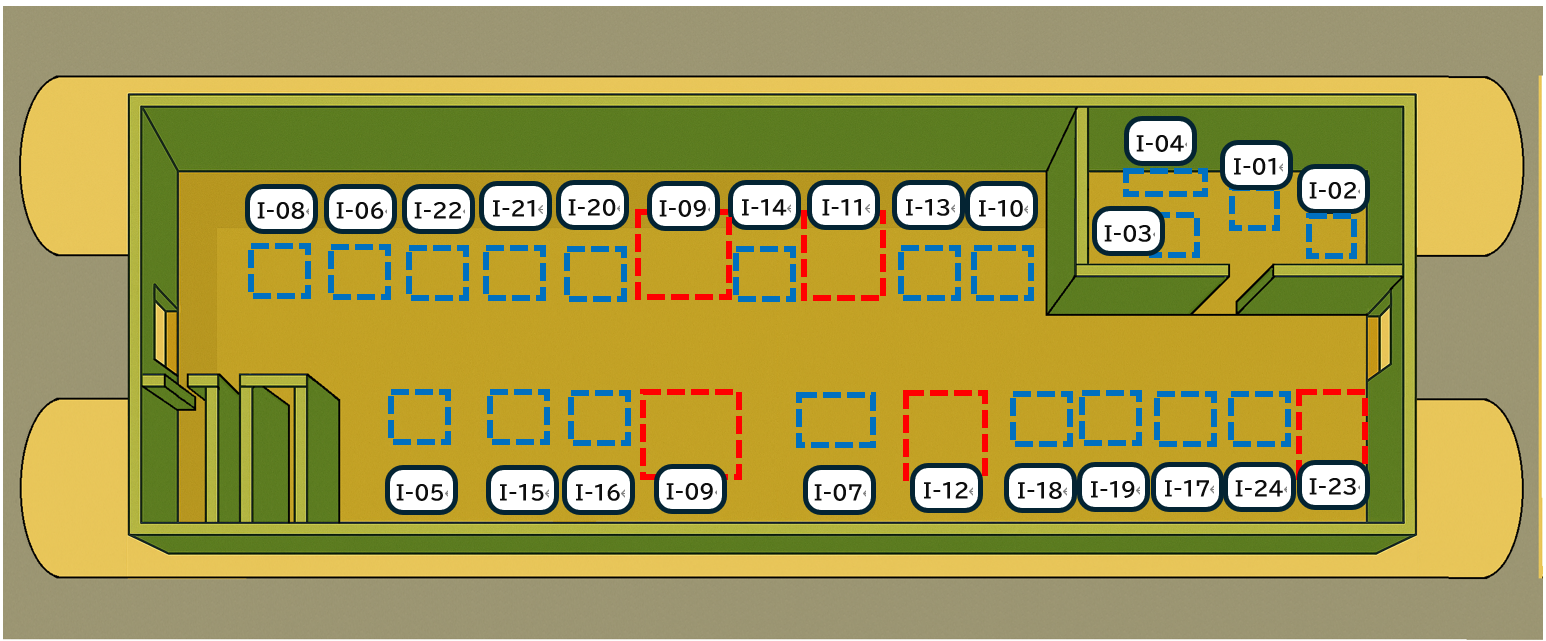
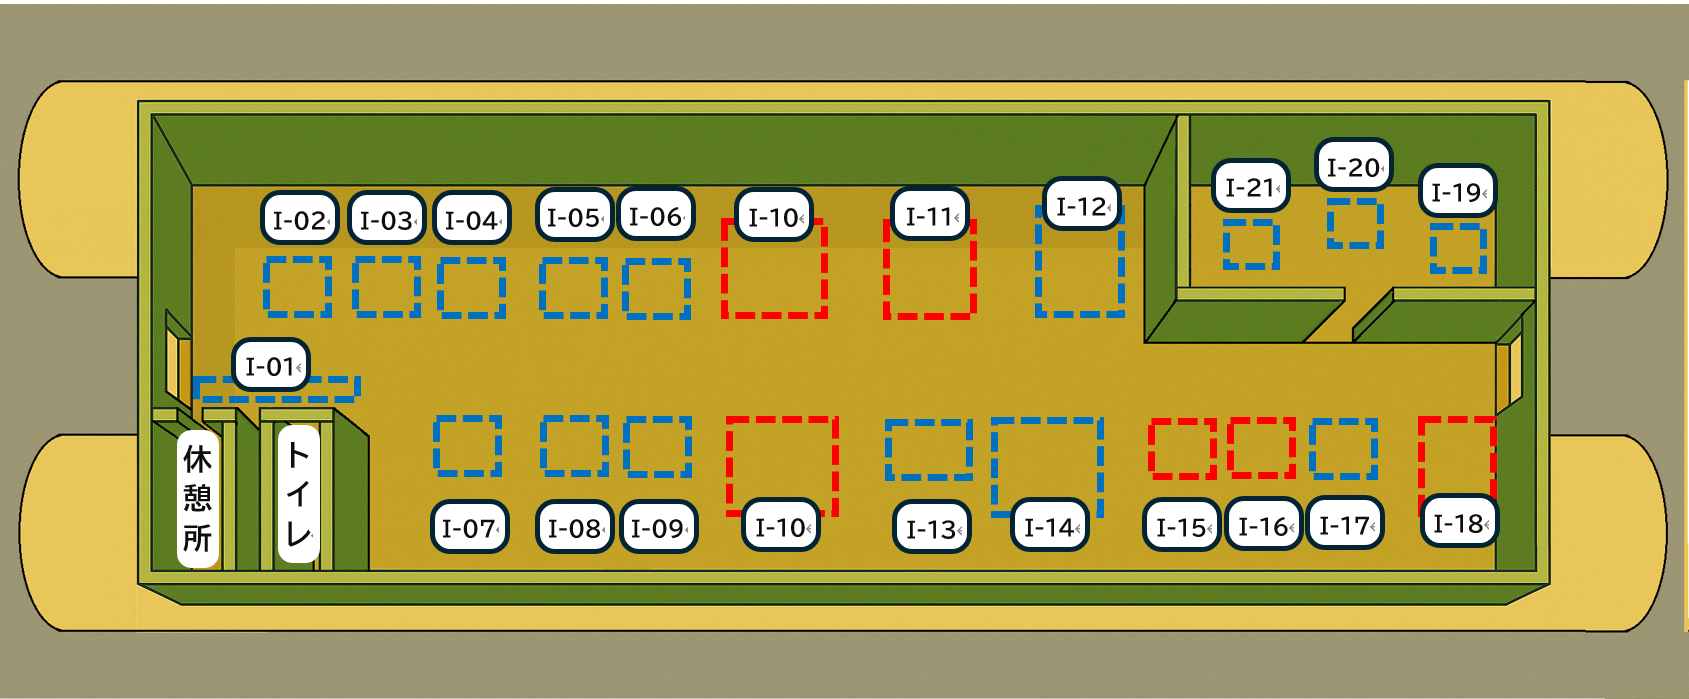
Add files via upload

Changed region(s): [[0.0, 0.0, 1.0, 1.0]]

diff --git a/indoor.html b/indoor.html
@@ -110,81 +110,72 @@ const routeLayerA  = L.layerGroup();
    4. GeoJSON相当データ（HTML内埋め込み）
 ========================================= */
 const indoorBooths = {  "type": "FeatureCollection","features": [
-    { "type":"Feature","properties":{"id":"I-01","name":"＆Conote概要","time":"5〜10分","image":"I-X.png"},
+    { "type":"Feature","properties":{"id":"I-01","name":"技術PRコーナー","time":"5〜10分","image":"I-X.png"},  "geometry":{"type":"Point","coordinates":[300,380]}},
 
-      "geometry":{"type":"Point","coordinates":[1220,520]}},
+    { "type":"Feature","properties":{"id":"I-02","name":"地域別電力需要予測システム（DFES）","time":"5〜10分","image":"I-X.png"},
+      "geometry":{"type":"Point","coordinates":[260,460]}},
 
-    { "type":"Feature","properties":{"id":"I-02","name":"＆Conoteサービス","time":"5〜10分","image":"I-X.png"},
-      "geometry":{"type":"Point","coordinates":[1300,500]}},
+    { "type":"Feature","properties":{"id":"I-03","name":"AIを活用した配電設備の劣化判定","time":"5〜10分","image":"I-X.png"},
+      "geometry":{"type":"Point","coordinates":[340,460]}},
 
-    { "type":"Feature","properties":{"id":"I-03","name":"コンサル海外事例","time":"5〜10分","image":"I-X.png"},
-      "geometry":{"type":"Point","coordinates":[1150,490]}},
+    { "type":"Feature","properties":{"id":"I-04","name":"ポリエチレン線カバーの水平リサイクル","time":"5〜10分","image":"I-X.png"},
+      "geometry":{"type":"Point","coordinates":[420,460]}},
 
-    { "type":"Feature","properties":{"id":"I-04","name":"記念撮影スポット","time":"5〜10分","image":"I-X.png"},
-      "geometry":{"type":"Point","coordinates":[1150,580]}},
+    { "type":"Feature","properties":{"id":"I-05","name":"柱上変圧器の絶縁油リサイクル","time":"5〜10分","image":"I-X.png"},
+      "geometry":{"type":"Point","coordinates":[500,460]}},
 
-    { "type":"Feature","properties":{"id":"I-05","name":"各部門広報活動写真展示","time":"5〜10分","image":"I-X.png"},
-      "geometry":{"type":"Point","coordinates":[400,300]}},
+    { "type":"Feature","properties":{"id":"I-06","name":"植物油変圧器の紹介","time":"5〜10分","image":"I-X.png"},
+      "geometry":{"type":"Point","coordinates":[580,460]}},
 
-    { "type":"Feature","properties":{"id":"I-06","name":"AIによる配電設備劣化判定","time":"5〜10分","image":"I-X.png"},
-      "geometry":{"type":"Point","coordinates":[340,440]}},
+    { "type":"Feature","properties":{"id":"I-07","name":"蓄電池を活用した水力マイクログリッド系統の安定化を実現","time":"5〜10分","image":"I-X.png"},
+      "geometry":{"type":"Point","coordinates":[410,300]}},
 
-    { "type":"Feature","properties":{"id":"I-07","name":"ボルト緩み留め金具新型HSE『スマートスプリング』","time":"5〜10分","image":"I-X.png"},
-      "geometry":{"type":"Point","coordinates":[810,300]}},
+    { "type":"Feature","properties":{"id":"I-08","name":"地中ケーブル用FRP製支持材 実機展示","time":"5〜10分","image":"I-X.png"},
+      "geometry":{"type":"Point","coordinates":[510,300]}},
 
-    { "type":"Feature","properties":{"id":"I-08","name":"DFES『地域別電力需要予測システム』","time":"5〜10分","image":"I-X.png"},
-      "geometry":{"type":"Point","coordinates":[260,440]}},
-
-    { "type":"Feature","properties":{"id":"I-09","name":"データ集約装置のデータ取得体験＆装置展示","time":"5〜10分","image":"I-X.png"},
-      "geometry":{"type":"Point","coordinates":[660,440]}},
-
-    { "type":"Feature","properties":{"id":"I-09","name":"データ集約装置のデータ取得体験＆装置展示","time":"5〜10分","image":"I-X.png"},
-      "geometry":{"type":"Point","coordinates":[670,300]}},
-
-    { "type":"Feature","properties":{"id":"I-10","name":"エンジニアリング支援ツール","time":"5〜10分","image":"I-X.png"},
-      "geometry":{"type":"Point","coordinates":[970,440]}},
-
-    { "type":"Feature","properties":{"id":"I-11","name":"変電機器の保守技術","time":"5〜10分","image":"I-X.png"},
-      "geometry":{"type":"Point","coordinates":[820,440]}},
-
-    { "type":"Feature","properties":{"id":"I-12","name":"SF6ガスレス機器","time":"5〜10分","image":"I-X.png"},
-      "geometry":{"type":"Point","coordinates":[910,300]}},
-
-    { "type":"Feature","properties":{"id":"I-13","name":"受変電設備のセンシング","time":"5〜10分","image":"I-X.png"},
-      "geometry":{"type":"Point","coordinates":[900,440]}},
-
-    { "type":"Feature","properties":{"id":"I-14","name":"変圧器の周囲温度測定","time":"5〜10分","image":"I-X.png"},
-      "geometry":{"type":"Point","coordinates":[740,440]}},
-
-    { "type":"Feature","properties":{"id":"I-15","name":"系統用蓄電池を用いた実証試験","time":"5〜10分","image":"I-X.png"},
-      "geometry":{"type":"Point","coordinates":[500,300]}},
-
-    { "type":"Feature","properties":{"id":"I-16","name":"FRP製ケーブル支持材","time":"5〜10分","image":"I-X.png"},
+    { "type":"Feature","properties":{"id":"I-09","name":"鉄塔用ボルト緩み止め金具　スマートスプリング","time":"5〜10分","image":"I-X.png"},
       "geometry":{"type":"Point","coordinates":[580,300]}},
 
-    { "type":"Feature","properties":{"id":"I-17","name":"ドローン訓練シミュレータ","time":"5〜10分","image":"I-X.png"},
-      "geometry":{"type":"Point","coordinates":[1150,300]}},
+    { "type":"Feature","properties":{"id":"I-10A","name":"状態監視保全システムによる変電設備のセンシング","time":"5〜10分","image":"I-X.png"},
+      "geometry":{"type":"Point","coordinates":[690,460]}},
 
-    { "type":"Feature","properties":{"id":"I-18","name":"地中線埋設立会","time":"5〜10分","image":"I-X.png"},
-      "geometry":{"type":"Point","coordinates":[1010,300]}},
+    { "type":"Feature","properties":{"id":"I-10B","name":"状態監視保全システムによる変電設備のセンシング","time":"5〜10分","image":"I-X.png"},
+      "geometry":{"type":"Point","coordinates":[690,300]}},
 
-    { "type":"Feature","properties":{"id":"I-19","name":"歩行用アシストスーツ","time":"5〜10分","image":"I-X.png"},
-      "geometry":{"type":"Point","coordinates":[1080,300]}},
+    { "type":"Feature","properties":{"id":"I-11","name":"変電機器の保守技術紹介","time":"5〜10分","image":"I-X.png"},
+      "geometry":{"type":"Point","coordinates":[820,440]}},
 
-    { "type":"Feature","properties":{"id":"I-20","name":"植物油変圧器","time":"5〜10分","image":"I-X.png"},
-      "geometry":{"type":"Point","coordinates":[580,440]}},
+    { "type":"Feature","properties":{"id":"I-12","name":"エンジニアリング支援ツール紹介","time":"5〜10分","image":"I-X.png"},
+      "geometry":{"type":"Point","coordinates":[960,440]}},
 
-    { "type":"Feature","properties":{"id":"I-21","name":"リサイクル絶縁油","time":"5〜10分","image":"I-X.png"},
-      "geometry":{"type":"Point","coordinates":[490,440]}},
+    { "type":"Feature","properties":{"id":"I-13","name":"カーボンニュートラルの実現に向けた変電設備","time":"5〜10分","image":"I-X.png"},
+      "geometry":{"type":"Point","coordinates":[820,300]}},
 
-    { "type":"Feature","properties":{"id":"I-22","name":"ポリ管リサイクル","time":"5〜10分","image":"I-X.png"},
-      "geometry":{"type":"Point","coordinates":[420,440]}},
 
-    { "type":"Feature","properties":{"id":"I-23","name":"枝打ち機械","time":"5〜10分","image":"I-X.png"},
+    { "type":"Feature","properties":{"id":"I-14","name":"地中線埋設立ち合いの紹介","time":"5〜10分","image":"I-X.png"},
+      "geometry":{"type":"Point","coordinates":[930,300]}},
+
+    { "type":"Feature","properties":{"id":"I-15","name":"歩行用アシストスーツの歩行体験","time":"5〜10分","image":"I-X.png"},
+      "geometry":{"type":"Point","coordinates":[1050,300]}},
+
+    { "type":"Feature","properties":{"id":"I-16","name":"ドローンシミュレータの訓練体験","time":"5〜10分","image":"I-X.png"},
+      "geometry":{"type":"Point","coordinates":[1120,300]}},
+
+    { "type":"Feature","properties":{"id":"I-17","name":"ドローン伐採機の開発紹介","time":"5〜10分","image":"I-X.png"},
+      "geometry":{"type":"Point","coordinates":[1190,300]}},
+
+    { "type":"Feature","properties":{"id":"I-18","name":"自動昇木機能付き芯止め機の実機展示","time":"5〜10分","image":"I-X.png"},
       "geometry":{"type":"Point","coordinates":[1290,300]}},
 
-    { "type":"Feature","properties":{"id":"I-24","name":"ドローン伐採","time":"5〜10分","image":"I-X.png"},
-      "geometry":{"type":"Point","coordinates":[1220,300]}},
+    { "type":"Feature","properties":{"id":"I-19","name":"コンサルティングサービス＆Conote　サービス紹介","time":"5〜10分","image":"I-X.png"},
+
+      "geometry":{"type":"Point","coordinates":[1290,520]}},
+
+    { "type":"Feature","properties":{"id":"I-20","name":"海外コンサル事例紹介","time":"5〜10分","image":"I-X.png"},
+      "geometry":{"type":"Point","coordinates":[1200,540]}},
+
+    { "type":"Feature","properties":{"id":"I-21","name":"【企画室特別展示】GAxIAプラットフォームサービス（3D Gaussian Splatting）","time":"5〜10分","image":"I-X.png"},
+      "geometry":{"type":"Point","coordinates":[1110,520]}},
 
   ]
 };

diff --git a/booth_detail.html b/booth_detail.html
@@ -52,61 +52,84 @@
 
 
 <h1>
-  展示ブース一覧<br>
-  【O：屋外展示－番号，I：屋内展示－番号】
+  展示ブース一覧
 </h1>
 
+<div id="O" class="booth">【O：屋外展示・実演・体験】
 <div id="O-01" class="booth">O-01：車高調整式下草刈り機の操作体験
   <span class="schedule">👀実演スケジュール：10:20、11:20、12:20</span>
 </div>
 <div id="O-02" class="booth">O-02：送電設備自動点検（POWER GRID Check)　実演
   <span class="schedule">👀実演スケジュール：10:05、11:00、12:00</span>
 </div>
-<div id="O-03" class="booth">O-03：安全ＡＩカメラ＆輪留めインターロック</div> //←ここから//
-<div id="O-04" class="booth">O-04：伐採車両【配電】
-  <span class="schedule">👀実演スケジュール：10:20、11:00、11:40</span>
-</div>
-<div id="O-05" class="booth">O-05：間接活線工具【配電】</div>
-
-<div id="O-06" class="booth">O-06：ドローン巡視【変電】
-  <span class="schedule">👀実演スケジュール：10:20、11:20、12:20</span>
-</div>
-<div id="O-07" class="booth">O-07：運搬ドローン【送電】
-  <span class="schedule">👀実演スケジュール：10:40、11:40、12:40</span>
-</div>
-<div id="O-08" class="booth">O-08：山間部巡視ロボ【送電】…</div>
-<div id="O-09" class="booth">O-09：フォトスポット【広報】…</div>
-
-<div id="I-01" class="booth">I-01：＆Conote概要…</div>
-<div id="I-02" class="booth">I-02：＆Conoteサービス…</div>
-<div id="I-03" class="booth">I-03：コンサル海外事例…</div>
-<div id="I-04" class="booth">I-04：記念撮影スポット…</div>
-<div id="I-05" class="booth">I-05：各部門広報活動写真展示…</div>
-
-<div id="I-06" class="booth">I-06：AIによる配電設備劣化判定…</div>
-<div id="I-07" class="booth">I-07：ボルト緩み留め金具新型HSE『スマートスプリング』…</div>
-<div id="I-08" class="booth">I-08：DFES『地域別電力需要予測システム』…</div>
-<div id="I-09" class="booth">I-09：データ集約装置のデータ取得体験＆装置展示…</div>
-<div id="I-10" class="booth">I-10：エンジニアリング支援ツール…</div>
-
-<div id="I-11" class="booth">I-11：変電機器の保守技術…</div>
-<div id="I-12" class="booth">I-12：SF6ガスレス機器…</div>
-<div id="I-13" class="booth">I-13：受変電設備のセンシング
+<div id="I-10" class="booth">O-03：受変電キュービクルのセンシング技術
   <span class="schedule">👀実演スケジュール：10:05、10:40、11:20、12:00、12:40</span>
 </div>
-<div id="I-14" class="booth">I-14：変圧器の周囲温度測定…</div>
-<div id="I-15" class="booth">I-15：系統用蓄電池を用いた実証試験…</div>
+<div id="O-03" class="booth">O-04：安全AIカメラを活用した墜落災害防止
+</div>
+<div id="O-04" class="booth">O-05：高所作業車の逸走防止インターロック 
+</div>
+<div id="O-05" class="booth">O-06：配電用伐採車両　グラップルソー・フェラバンチャー
+  <span class="schedule">👀実演スケジュール：10:20、11:00、11:40</span>
+</div>
+<div id="O-06" class="booth">O-07：間接活線工具
+</div>
+<div id="O-07" class="booth">O-08：変電所巡視ドローン
+  <span class="schedule">👀実演スケジュール：10:20、11:20、12:20</span>
+</div>
+<div id="O-08" class="booth">O-09：ドローン運搬 実演
+  <span class="schedule">👀実演スケジュール：10:40、11:40、12:40</span>
+</div>
+<div id="O-09" class="booth">O-10：四脚ロボット 実演
+</div>
+<div id="O-10" class="booth">O-11：📸フォトスポット（変電所カード）
+</div>
+</div>
+<div id="I" class="booth">【I：屋内展示・実演・体験】
+</div>
+<div id="I-01" class="booth">I-01：技術PRコーナー
+</div>
+<div id="I-02" class="booth">I-02：地域別電力需要予測システム（DFES）
+</div>
+<div id="I-03" class="booth">I-03：AIを活用した配電設備の劣化判定
+</div>
+<div id="I-04" class="booth">I-04：ポリエチレン線カバーの水平リサイクル
+</div>
+<div id="I-05" class="booth">I-05：柱上変圧器の絶縁油リサイクル
+</div>
+<div id="I-06" class="booth">I-06：植物油変圧器の紹介
+</div>
+<div id="I-07" class="booth">I-07：蓄電池を活用した水力マイクログリッド系統の安定化を実現
+</div>
+<div id="I-08" class="booth">I-08：地中ケーブル用FRP製支持材 実機展示
+</div>
+<div id="I-09" class="booth">I-09：鉄塔用ボルト緩み止め金具　スマートスプリング　
+</div>
+<div id="I-10" class="booth">I-10：状態監視保全システムによる変電設備のセンシング　実演
+</div>
+<div id="I-11" class="booth">I-11：変電機器の保守技術紹介
+</div>
+<div id="I-12" class="booth">I-12：エンジニアリング支援ツール紹介
+</div>
+<div id="I-13" class="booth">I-13：カーボンニュートラルの実現に向けた変電設備
+</div>
+<div id="I-14" class="booth">I-14：地中線埋設立ち合いの紹介
+</div>
+<div id="I-15" class="booth">I-15：歩行用アシストスーツの歩行体験
+</div>
+<div id="I-16" class="booth">I-16：ドローンシミュレータの訓練体験
+ </div>
+<div id="I-17" class="booth">I-17：ドローン伐採機の開発紹介
+</div>
+<div id="I-18" class="booth">I-18：自動昇木機能付き芯止め機の実機展示
+</div>
+<div id="I-19" class="booth">I-19：コンサルティングサービス＆Conote　サービス紹介
+</div>
+<div id="I-20" class="booth">I-20：海外コンサル事例紹介
+</div>
+<div id="I-21" class="booth">I-21：【企画室特別展示】GAxIAプラットフォームサービス（3D Gaussian Splatting）
+</div>
 
-<div id="I-16" class="booth">I-16：FRP製ケーブル支持材…</div>
-<div id="I-17" class="booth">I-17：ドローン訓練シミュレータ…</div>
-<div id="I-18" class="booth">I-18：地中線埋設立会…</div>
-<div id="I-19" class="booth">I-19：歩行用アシストスーツ…</div>
-<div id="I-20" class="booth">I-20：植物油変圧器…</div>
-
-<div id="I-21" class="booth">I-21：リサイクル絶縁油…</div>
-<div id="I-22" class="booth">I-22：ポリ管リサイクル…</div>
-<div id="I-23" class="booth">I-23：枝打ち機械…</div>
-<div id="I-24" class="booth">I-24：ドローン伐採…</div>
 
 <script>
   // ハッシュ(#I-05 など)を取得

diff --git a/index.html b/index.html
@@ -131,32 +131,38 @@ const routeLayerC  = L.layerGroup();
 const outdoorBooths = {
   "type":"FeatureCollection",
   "features":[
-    { "type":"Feature","properties":{"id":"O-1","name":"ハイドロマチックモア【送電】","time":"15～20分","image":"O-1.png"},
+    { "type":"Feature","properties":{"id":"O-1","name":"車高調整式下草刈り機の操作体験","time":"15～20分","image":"O-1.png"},
 
       "geometry":{"type":"Point","coordinates":[180,760]}},
 
     { "type":"Feature","properties":{"id":"O-2","name":"送電設備自動点検（POWER GRID Check)　実演","time":"15～20分","image":"O-2.png"},
       "geometry":{"type":"Point","coordinates":[270,580]}},
 
-    { "type":"Feature","properties":{"id":"O-3","name":"安全ＡＩカメラ＆輪留めインターロック","time":"15～20分","image":"O-3.png"},
-      "geometry":{"type":"Point","coordinates":[580,320]}},
+    { "type":"Feature","properties":{"id":"O-3","name":"受変電キュービクルのセンシング技術","time":"15～20分","image":"O-3-1.png"},
+      "geometry":{"type":"Point","coordinates":[580,400]}},
 
-    { "type":"Feature","properties":{"id":"O-4","name":"伐採車両【配電】","time":"15～20分","image":"O-4.png"},
+    { "type":"Feature","properties":{"id":"O-4","name":"安全AIカメラを活用した墜落災害防止","time":"15～20分","image":"O-3.png"},
+      "geometry":{"type":"Point","coordinates":[580,280]}},
+
+    { "type":"Feature","properties":{"id":"O-5","name":"高所作業車の逸走防止インターロック","time":"15～20分","image":"O-3.png"},
+      "geometry":{"type":"Point","coordinates":[580,170]}},
+
+    { "type":"Feature","properties":{"id":"O-6","name":"配電用伐採車両　グラップルソー・フェラバンチャー","time":"15～20分","image":"O-4.png"},
       "geometry":{"type":"Point","coordinates":[950,440]}},
 
-    { "type":"Feature","properties":{"id":"O-5","name":"間接活線工具【配電】","time":"5〜10分","image":"O-5.png"},
+    { "type":"Feature","properties":{"id":"O-7","name":"間接活線工具","time":"5〜10分","image":"O-5.png"},
       "geometry":{"type":"Point","coordinates":[1150,440]}},
 
-    { "type":"Feature","properties":{"id":"O-6","name":"ドローン巡視【変電】","time":"15～20分","image":"O-6.png"},
+    { "type":"Feature","properties":{"id":"O-8","name":"変電所巡視ドローン","time":"15～20分","image":"O-6.png"},
       "geometry":{"type":"Point","coordinates":[930,690]}},
 
-    { "type":"Feature","properties":{"id":"O-7","name":"運搬ドローン【送電】","time":"15～20分","image":"O-7.png"},
+    { "type":"Feature","properties":{"id":"O-9","name":"ドローン運搬 実演","time":"15～20分","image":"O-7.png"},
       "geometry":{"type":"Point","coordinates":[1000,880]}},
 
-    { "type":"Feature","properties":{"id":"O-8","name":"山間部巡視ロボ【送電】","time":"15～20分","image":"O-8.png"},
+    { "type":"Feature","properties":{"id":"O-10","name":"四脚ロボット 実演","time":"15～20分","image":"O-8.png"},
       "geometry":{"type":"Point","coordinates":[980,960]}},
 
-    { "type":"Feature","properties":{"id":"O-9","name":"フォトスポット【広報】","time":"5〜10分","image":"O-9.png"},
+    { "type":"Feature","properties":{"id":"O-11","name":"📸フォトスポット（変電所カード）","time":"5〜10分","image":"O-9.png"},
       "geometry":{"type":"Point","coordinates":[750,280]}}
   ]
 };
@@ -166,7 +172,7 @@ const indoorBooths = {  "type": "FeatureCollection",
     {
       "type": "Feature",
       "properties": {
-        "id": "I-01～26",
+        "id": "I-01～21",
         "name": "屋内展示ブース",
         "time": "30分",
         "detailUrl": "indoor.html"
